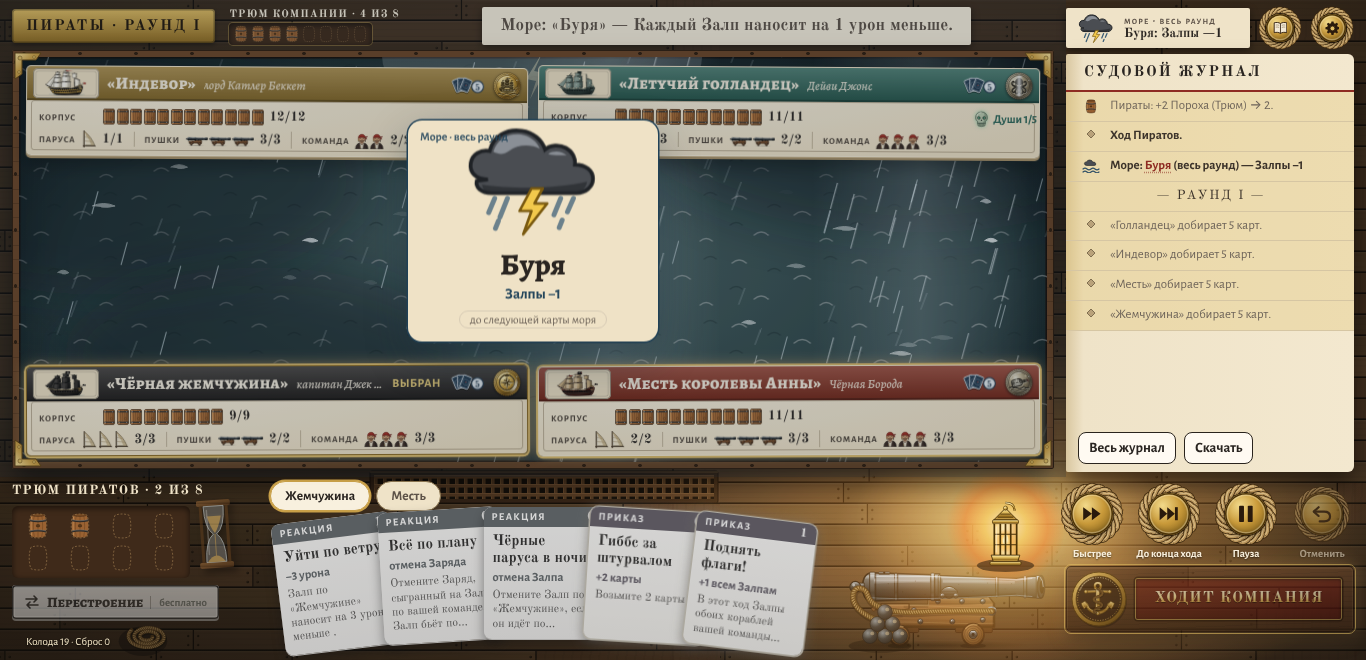
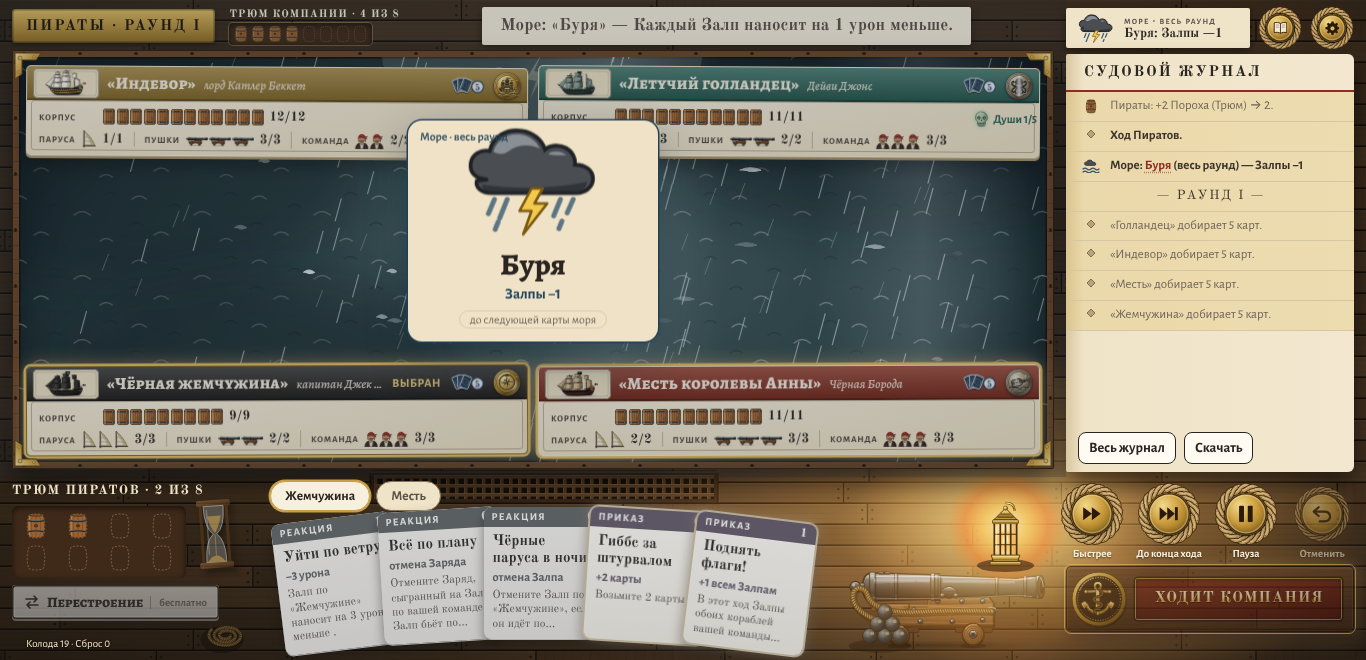
rig: the bottom left corner the same in any turn — the tray of the Hold as A5Table, the coil of one place and scale; «совместный залп …» over «Колода · Сброс» with 4 px between
Claude-Session: https://claude.ai/code/session_013w1DmSFp9mCkPiG2Sj6PTK

diff --git a/src/ui/game/TableThings.tsx b/src/ui/game/TableThings.tsx
@@ -137,15 +137,13 @@ function deckPlace(game: HTMLElement): DeckPlace | null {
   const mid = (stripL + stripR) / 2;
   // the grating — thin, 340×24 — over the middle of the hand
   const grateP = pieceAt('grate', mid - 170, hand.t - 6, 1);
-  // the coil (coil(…, 2.6, 1.2, 4.2) of the reference) in the bottom left corner, seen at least ¾: right of «Колода · Сброс», under
-  // «Перестроение», left of the first card (not under the cards or the Hold); smaller when the room is small (2.0–1.6 of the
-  // reference's 2.6), its bottom may go past the edge of the window
+  // the coil (coil(…, 2.6, 1.2, 4.2) of the reference) in the bottom left corner — the same place and size in any turn: under
+  // «Перестроение», 186 px right of its left edge (right of the longest «Колода · Сброс · сыграно»), 1.8 of the reference's 2.6,
+  // one scale for x and y; the first card may lie over its right edge a little, its bottom may go past the edge of the window
   const regroupEl = rect(visible(game, '.board-bottom .regroup'), g);
-  const deckLine = rect(visible(game, '[data-fx-deck]'), g);
-  const firstCard = cards.length ? Math.min(...cards.map((c) => c.l)) : stripL;
-  const coilL = (deckLine ? deckLine.l + deckLine.w : 12) + 6;
+  const coilL = (regroupEl ? regroupEl.l : 12) + 186;
   const coilTop = (regroupEl ? regroupEl.t + regroupEl.h : H - 40) + 4;
-  const cs = Math.max(1.6 / 2.6, Math.min(2.0 / 2.6, (firstCard - 4 - coilL) / PIECES.coil.vb[2]));
+  const cs = 1.8 / 2.6;
   const coilP = pieceAt('coil', coilL + 41 * cs, coilTop + 18 * cs, cs);
   // every card whole in the window: the lowest point of the fan ≥ 4 px above the edge (the padding under the cards)
   const lowest = cards.length ? Math.max(...cards.map((c) => c.t + c.h)) : 0;

diff --git a/src/ui/game/game.css b/src/ui/game/game.css
@@ -3523,11 +3523,12 @@ button.star::before {
     text-transform: uppercase;
     color: #efe3c8;
   }
-  .board-bottom > .team-row .powder-dots {
+  /* the tray of the Hold (A5Table): the same dark box in any turn */
+  .game .board-bottom > .team-row .powder-dots {
     display: grid;
     grid-template-columns: repeat(4, 32px);
     gap: 4px 10px;
-    padding: 6px 10px;
+    padding: 6px 8px;
     border-radius: 6px;
     background: #3f2a1a;
     box-shadow: inset 0 2px 6px rgba(0, 0, 0, 0.6);
@@ -4278,7 +4279,7 @@ button.star::before {
   .game.view-hand-deck .deck-info {
     position: absolute;
     left: 14px;
-    bottom: 4px;
+    bottom: 2px;
     margin: 0;
     font-size: 11px;
     color: #f3e6c6;
@@ -4287,6 +4288,16 @@ button.star::before {
   }
   .game.view-hand-deck .deck-played {
     display: inline;
+  }
+  /* «совместный залп …» stands above the line «Колода · Сброс» (≥ 4 px between them), under «Перестроение» */
+  .game.view-hand-deck .board-bottom > .team-row .hint {
+    position: absolute;
+    left: 14px;
+    top: calc(100% + 3px);
+    max-width: 215px;
+    font-size: 10px;
+    line-height: 11px;
+    white-space: nowrap;
   }
 }
 /* a wide window (1600 px and more): the fan of «Палуба» tilts ±3–8° and arcs (Hand.tsx fanOf), its step is at most .62 of a
